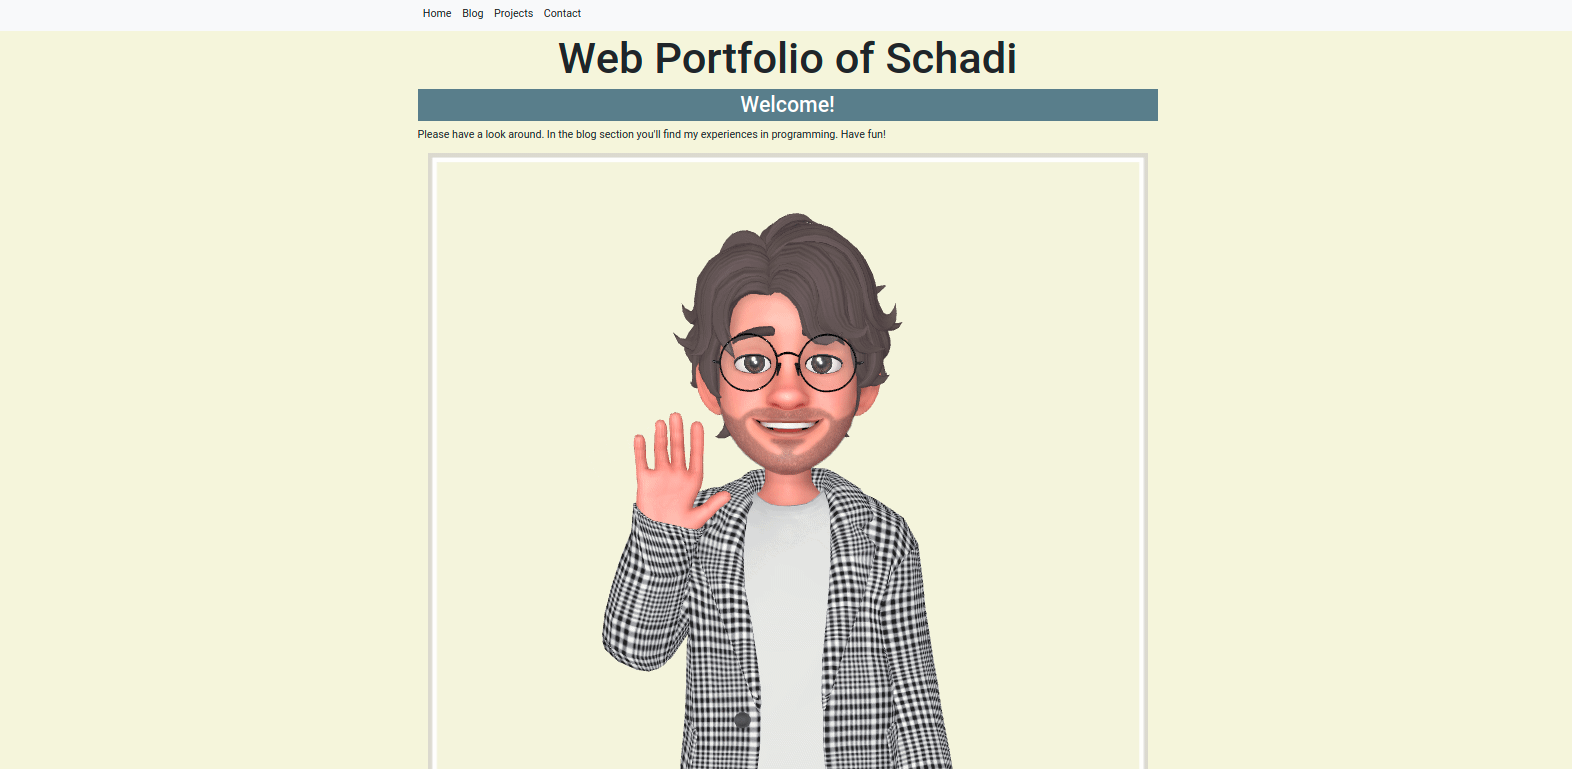
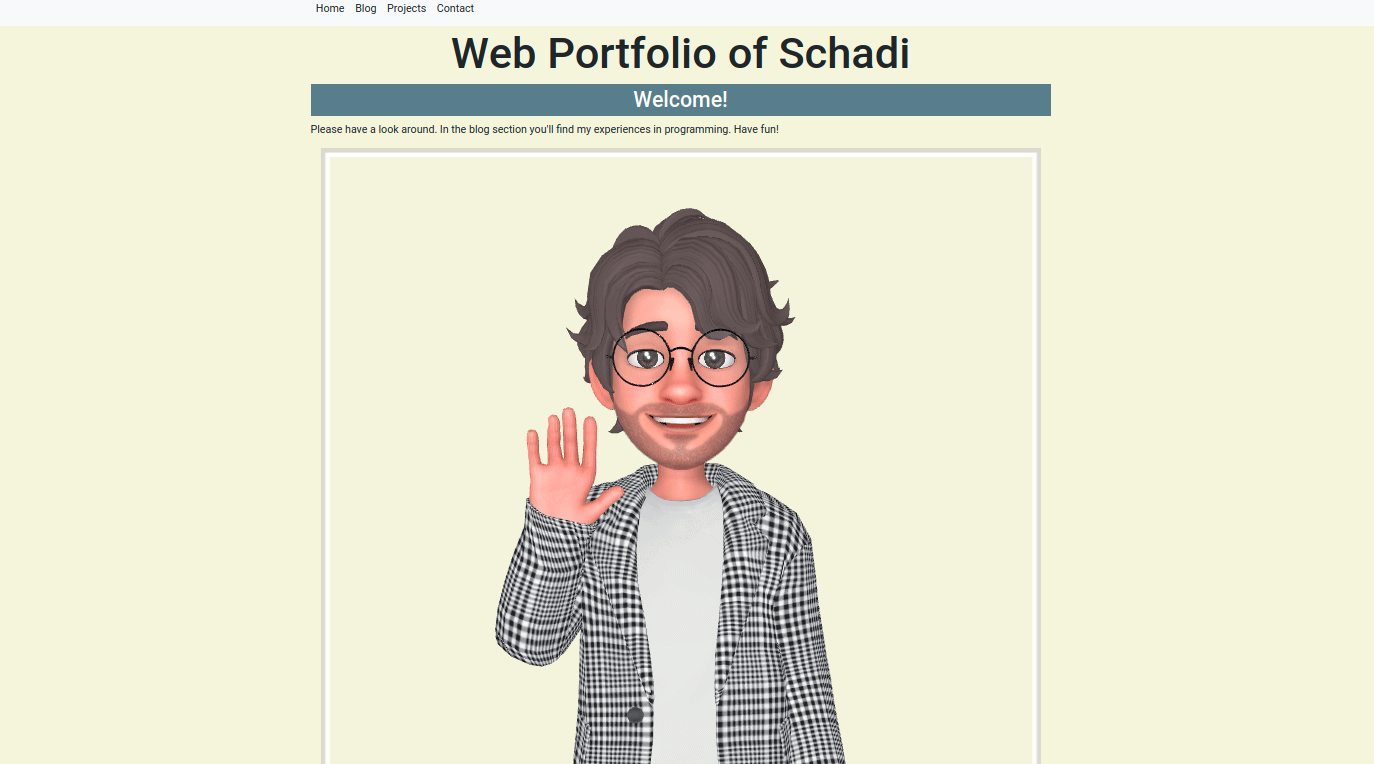
linked every thing in the blog page for the old website entries and removed a problem found in the nav

Changed region(s): [[0.0, 0.0, 1.0, 1.0], [0.3362, 0.2709, 0.6419, 1.0], [0.5197, 0.301, 0.5502, 0.3312]]

diff --git a/blog/fifth-entry/index.html b/blog/fifth-entry/index.html
@@ -33,45 +33,46 @@
       </div>
     </nav>
     <!-- start typing -->
-
-    <h1 class="title">
-      Contact form - Fifth Entry
-      <i class="far fa-address-card"></i>
-    </h1>
-    <!-- date -->
-    <p>January 11, 2022</p>
-    <hr />
-    <!-- Content -->
-    <p>
-      I still have no real solution for the footer. However today was a fruitful
-      day and i am sure by tomorrow the website will be finished. I only came
-      upon small annoying problems, but nothing too big that consumed a lot of
-      time. I am currently 95% finished with the entire website. <br />
-      I created the contact form. Although it serves no purpose, i found it
-      better than just putting a fake email that also serves no purpose. After i
-      finished the contact page i moved to the last page. The Project page!
-      <br />
-      I am not sure what to write in the project page, because i'm just starting
-      and currently have no work experience let alone projects that i've worked
-      on. After thinking about it for a few minutes, i just decided to put the
-      Web-Portfolio as a project. I also made clickable, so that whenever
-      someone clicks on it they will be redirected to the homepage. That way
-      they will be stuck on my page for eternity!
-      <i class="far fa-smile-wink"></i>
-    </p>
-    <p>
-      Here is an image of the how the new contact page looks.
-      <ion-icon name="arrow-down-circle-outline"></ion-icon>
-    </p>
-    <hr />
-    <!-- Images and image toggler -->
-    <img
-      src="/blog/fifth-entry/img/"
-      alt="Screenshot of the contact page"
-      class="img-fluid"
-    />
-    <hr />
-
+    <article class="container">
+      <h1 class="title">
+        Contact form - Fifth Entry
+        <i class="far fa-address-card"></i>
+      </h1>
+      <!-- date -->
+      <p>January 11, 2022</p>
+      <hr />
+      <!-- Content -->
+      <p>
+        I still have no real solution for the footer. However today was a
+        fruitful day and i am sure by tomorrow the website will be finished. I
+        only came upon small annoying problems, but nothing too big that
+        consumed a lot of time. I am currently 95% finished with the entire
+        website. <br />
+        I created the contact form. Although it serves no purpose, i found it
+        better than just putting a fake email that also serves no purpose. After
+        i finished the contact page i moved to the last page. The Project page!
+        <br />
+        I am not sure what to write in the project page, because i'm just
+        starting and currently have no work experience let alone projects that
+        i've worked on. After thinking about it for a few minutes, i just
+        decided to put the Web-Portfolio as a project. I also made clickable, so
+        that whenever someone clicks on it they will be redirected to the
+        homepage. That way they will be stuck on my page for eternity!
+        <i class="far fa-smile-wink"></i>
+      </p>
+      <p>
+        Here is an image of the how the new contact page looks.
+        <ion-icon name="arrow-down-circle-outline"></ion-icon>
+      </p>
+      <hr />
+      <!-- Images and image toggler -->
+      <img
+        src="/blog/fifth-entry/img/contact-page.png"
+        alt="Screenshot of the contact page"
+        class="img-fluid"
+      />
+      <hr />
+    </article>
     <script
       type="module"
       src="https://unpkg.com/ionicons@5.5.2/dist/ionicons/ionicons.esm.js"

diff --git a/blog/index.html b/blog/index.html
@@ -56,6 +56,7 @@
       </article>
     </div>
 
+    <!-- the old blog entries from the time before powercoders -->
     <div class="container card-links">
       <article class="box-card-blog">
         <h2>Lorem, ipsum dolor.</h2>
@@ -67,7 +68,57 @@
         <button
           class="breakout-button"
           type="button"
-          onclick="window.location.href = '#';"
+          onclick="window.location.href = 'sixth-entry/index.html';"
+        >
+          More
+        </button>
+      </article>
+
+      <article class="box-card-blog">
+        <h2>Lorem, ipsum dolor.</h2>
+        <p>
+          Lorem ipsum dolor sit amet consectetur adipisicing elit. Consectetur
+          ea, deleniti beatae commodi rem non officiis distinctio corporis optio
+          atque.
+        </p>
+        <button
+          class="breakout-button"
+          type="button"
+          onclick="window.location.href = 'fifth-entry/index.html';"
+        >
+          More
+        </button>
+      </article>
+
+      <article class="box-card-blog">
+        <h2>Lorem, ipsum dolor.</h2>
+        <p>
+          Lorem ipsum dolor sit amet consectetur adipisicing elit. Consectetur
+          ea, deleniti beatae commodi rem non officiis distinctio corporis optio
+          atque.
+        </p>
+        <button
+          class="breakout-button"
+          type="button"
+          onclick="window.location.href = 'fourth-entry/index.html';"
+        >
+          More
+        </button>
+      </article>
+    </div>
+
+    <div class="container card-links">
+      <article class="box-card-blog">
+        <h2>Lorem, ipsum dolor.</h2>
+        <p>
+          Lorem ipsum dolor sit amet consectetur adipisicing elit. Consectetur
+          ea, deleniti beatae commodi rem non officiis distinctio corporis optio
+          atque.
+        </p>
+        <button
+          class="breakout-button"
+          type="button"
+          onclick="window.location.href = 'third-entry/index.html';"
         >
           More
         </button>
@@ -82,7 +133,7 @@
         <button
           class="breakout-button"
           type="button"
-          onclick="window.location.href = 'https:#';"
+          onclick="window.location.href = 'second-entry/index.html';"
         >
           More
         </button>
@@ -97,7 +148,7 @@
         <button
           class="breakout-button"
           type="button"
-          onclick="window.location.href = 'https:#';"
+          onclick="window.location.href = 'first-entry/index.html';"
         >
           More
         </button>

diff --git a/styles.css b/styles.css
@@ -64,7 +64,7 @@ a {
 
 /* Nav Bar */
 .navbar {
-  position: fixed;
+  /* position: fixed; */
   width: 100%;
   background-color: #19142a;
   display: flex;
@@ -410,6 +410,7 @@ p {
 .img-fluid {
   max-width: 100%;
   height: auto;
+  object-fit: cover;
 }
 
 /* for the footer */

diff --git a/blog/first-entry/index.html b/blog/first-entry/index.html
@@ -32,7 +32,6 @@
         <span class="bar"></span>
       </div>
     </nav>
-
     <!-- start writing  -->
     <article class="container">
       <h1>
